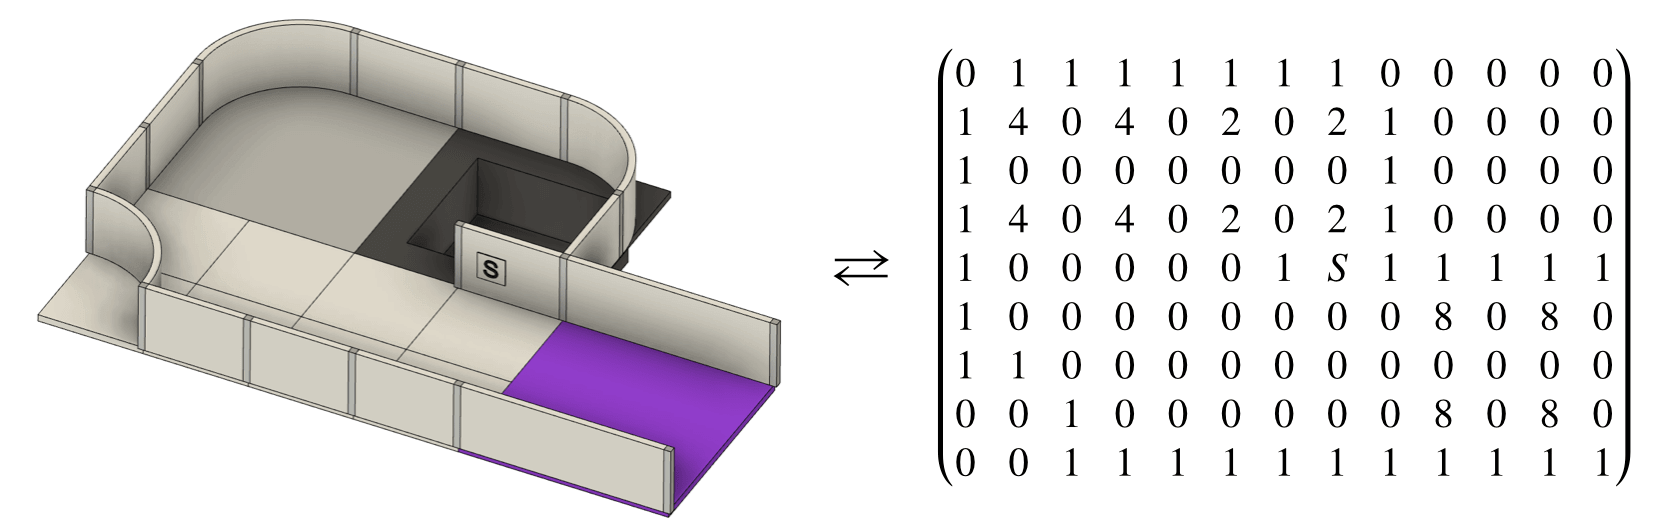
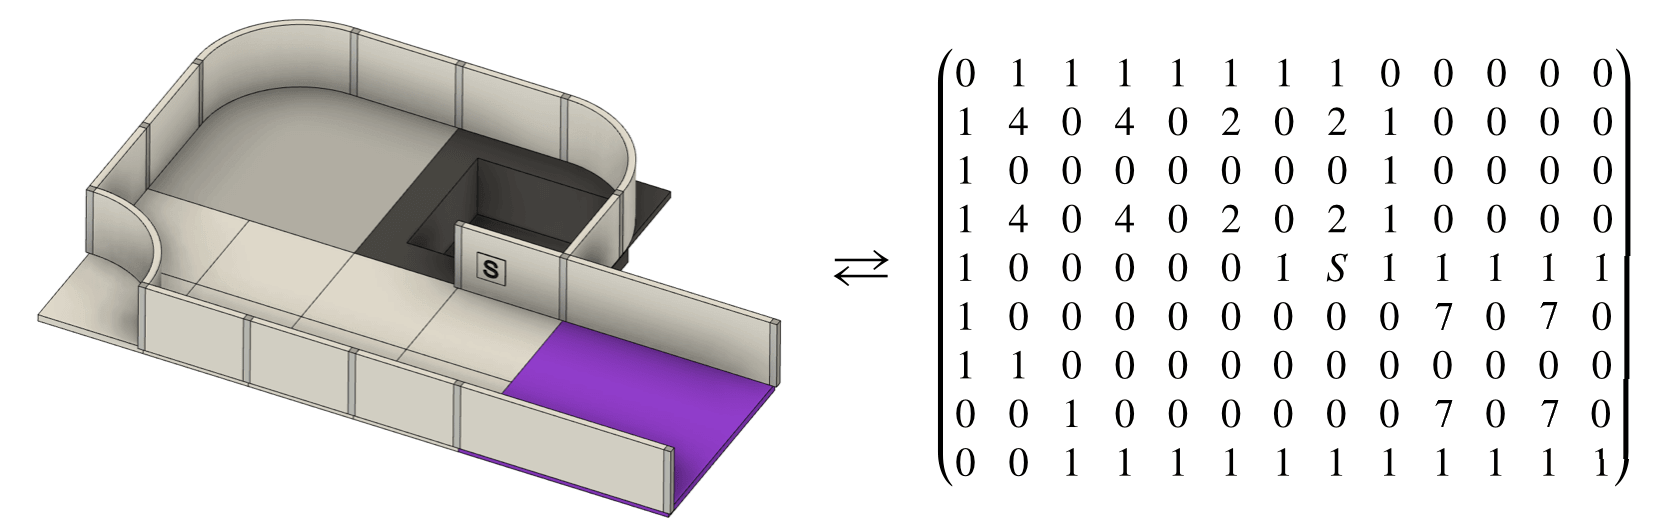
fix map answer rules for connection tiles

Changed region(s): [[0.7713, 0.6629, 0.9873, 0.904], [0.7713, 0.5725, 0.9873, 0.6328], [0.9564, 0.4821, 0.9873, 0.5424]]

diff --git a/content/en/docs/Rules/Mapping/_index.md b/content/en/docs/Rules/Mapping/_index.md
@@ -40,16 +40,23 @@ Mapping is scored as a multiplier to the overall scores obtained during the run.
         <td>6</td>
         </tr>
         <tr>
-        <td>Connection tiles from area 1 to 3</td>
+        <td>Connection tiles from area 2 to 3</td>
         <td>7</td>
         </tr>
         <tr>
-        <td>Connection tiles from area 2 to 3</td>
+        <td>Connection tiles from area 3 to 4</td>
         <td>8</td>
         </tr>
         <tr>
+        <td>Connection tiles from area 1 to 4</td>
+        <td>9</td>
+        <tr>
         <td>Victims</td>
         <td>The corresponding victim code (H,S,U,F,P,C,O)</td>
+        </tr>
+        <tr>
+        <td>All area 4 tiles/edges/vertices</td>
+        <td>Any character</td>
         </tr>
         <tr>
         <td>Any other tiles/edges/vertices</td>
@@ -72,7 +79,7 @@ The exception is the following case, where one side of the wall is a normal righ
 
 
 ## Examples
-These are examples of correct answers for some of the maps. The world files used here are provided to you as sample worlds.
+These are examples of correct answers for some of the maps. The world files used here are provided to you as sample worlds. Note that worlds world1.wbt and world2.wbt do not have area 4s, so technically the connection tiles are not correct. The correct map answer will be applied to room4.wbt.
 
 ### world1.wbt
 {{<figure src="world1.png" class="center">}}
